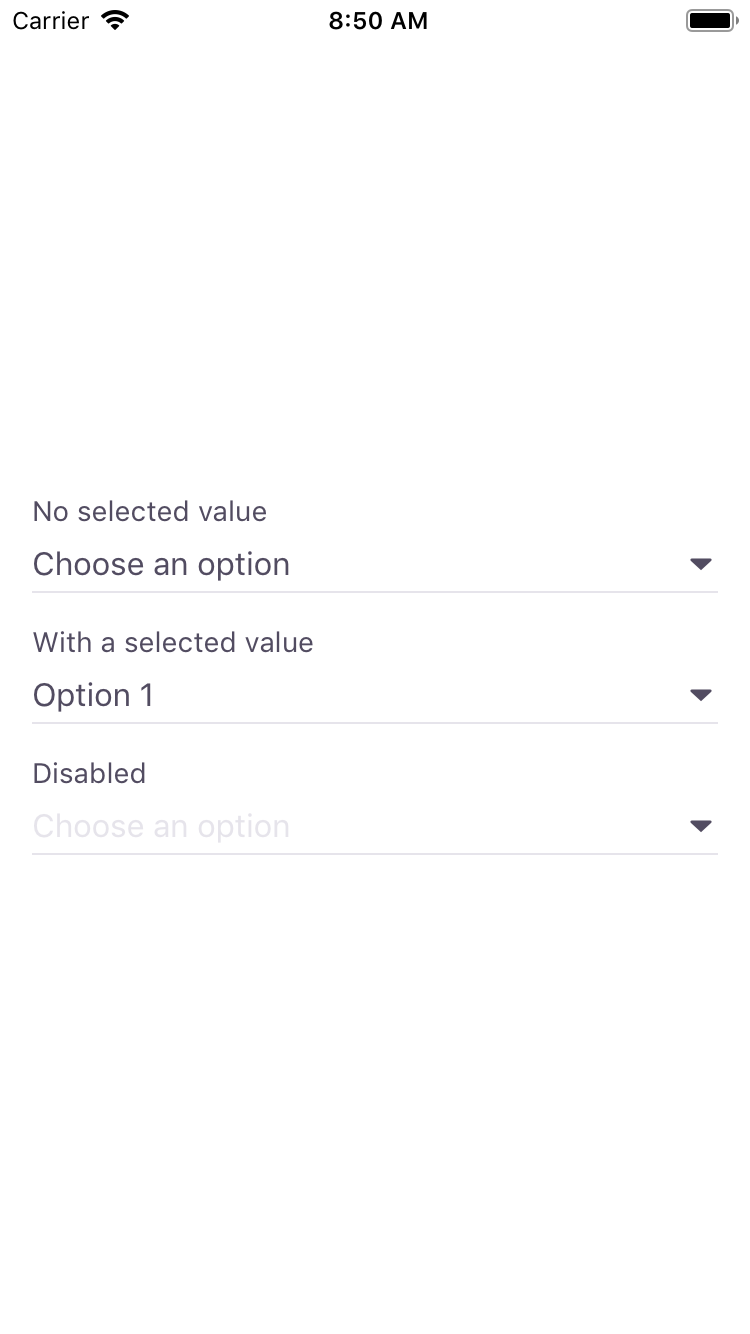
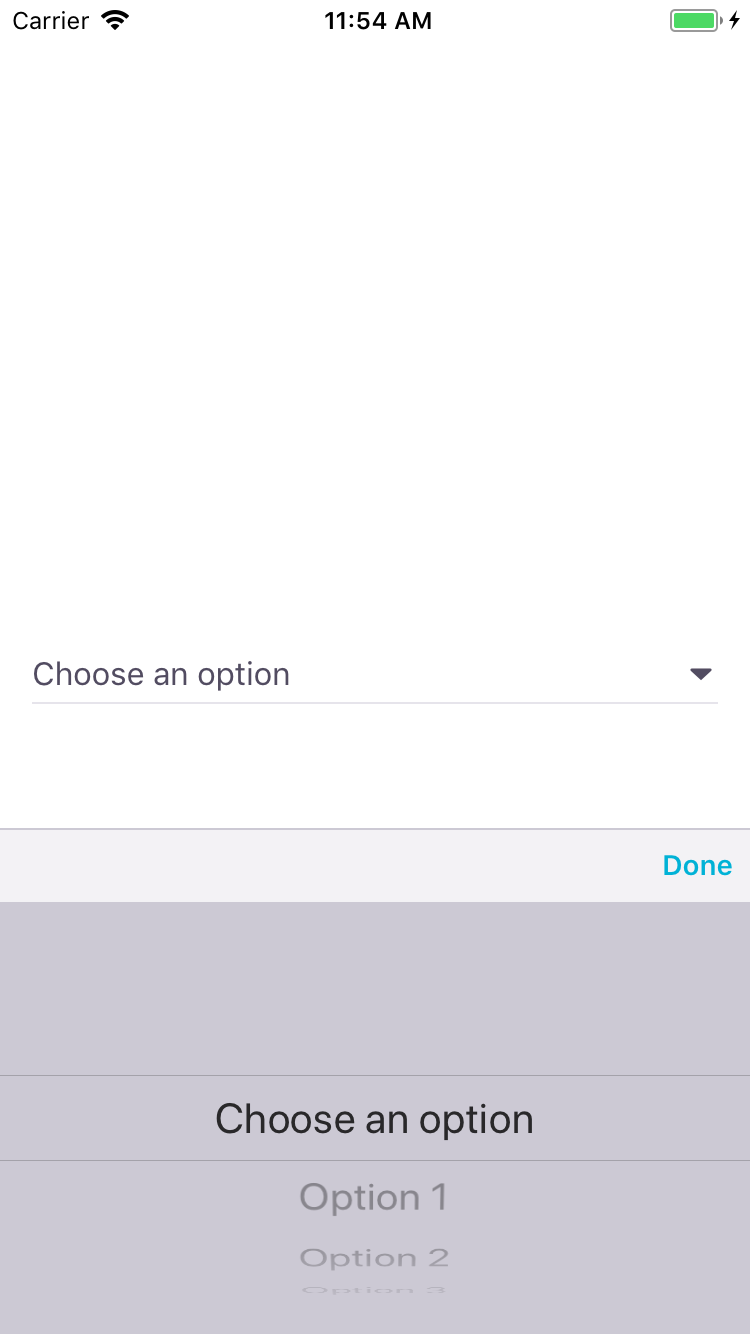
[NO-JIRA] Remove extraneous BpkSelect examples from BpkPicker

diff --git a/packages/bpk-docs/src/pages/NativePickerPage/NativePickerPage.js b/packages/bpk-docs/src/pages/NativePickerPage/NativePickerPage.js
@@ -22,9 +22,6 @@ import readme from 'react-native-bpk-component-picker/README.md';
 import iosScreenshotDefault from 'react-native-bpk-component-picker/screenshots/ios/default.png';
 import androidScreenshotDefault from 'react-native-bpk-component-picker/screenshots/android/default.png';
 
-import iosScreenshotDefaultPickerOpen from 'react-native-bpk-component-picker/screenshots/ios/default-picker-open.png';
-import androidScreenshotDefaultPickerOpen from 'react-native-bpk-component-picker/screenshots/android/default-picker-open.png';
-
 import IntroBlurb from '../../components/IntroBlurb';
 import DocsPageBuilder from '../../components/DocsPageBuilder';
 import DocsPageWrapper from '../../components/DocsPageWrapper';
@@ -49,29 +46,6 @@ const components = [
         width: 1080,
         height: 1920,
         src: `/${androidScreenshotDefault}`,
-        altText: 'Android Default Nudger Component',
-        subText: '(Google Pixel emulator)',
-      },
-    ],
-  },
-  {
-    id: 'picker-open',
-    title: 'Picker open',
-    blurb: 'Picker modal open.',
-    screenshots: [
-      {
-        title: 'iOS',
-        width: 750,
-        height: 1334,
-        src: `/${iosScreenshotDefaultPickerOpen}`,
-        altText: 'iOS Default Nudger Component',
-        subText: '(iPhone 8 simulator)',
-      },
-      {
-        title: 'Android',
-        width: 1080,
-        height: 1920,
-        src: `/${androidScreenshotDefaultPickerOpen}`,
         altText: 'Android Default Nudger Component',
         subText: '(Google Pixel emulator)',
       },

diff --git a/native/packages/react-native-bpk-component-picker/stories.js b/native/packages/react-native-bpk-component-picker/stories.js
@@ -29,7 +29,6 @@ import {
   spacingMd,
 } from 'bpk-tokens/tokens/base.react.native';
 import CenterDecorator from '../../storybook/CenterDecorator';
-import { StorySubheading } from '../../storybook/TextStyles';
 
 import BpkPicker, { BpkPickerItem } from './index';
 import { type PickerValue } from './src/common-types';
@@ -134,18 +133,11 @@ storiesOf('react-native-bpk-component-picker', module)
   .addDecorator(CenterDecorator)
   .add('docs:default', () => (
     <View>
-      <StorySubheading>No selected value</StorySubheading>
-      <StatefulBpkPicker style={styles.picker} />
-
-      <StorySubheading>With a selected value</StorySubheading>
-      <StatefulBpkPicker selectedValue="1" style={styles.picker} />
-
-      <StorySubheading>Disabled</StorySubheading>
-      <StatefulBpkPicker disabled style={styles.picker} />
+      <StatefulBpkPicker isOpen style={styles.picker} />
     </View>
   ))
-  .add('docs:picker-open', () => (
+  .add('picker-closed', () => (
     <View>
-      <StatefulBpkPicker isOpen style={styles.picker} />
+      <StatefulBpkPicker style={styles.picker} />
     </View>
   ));
